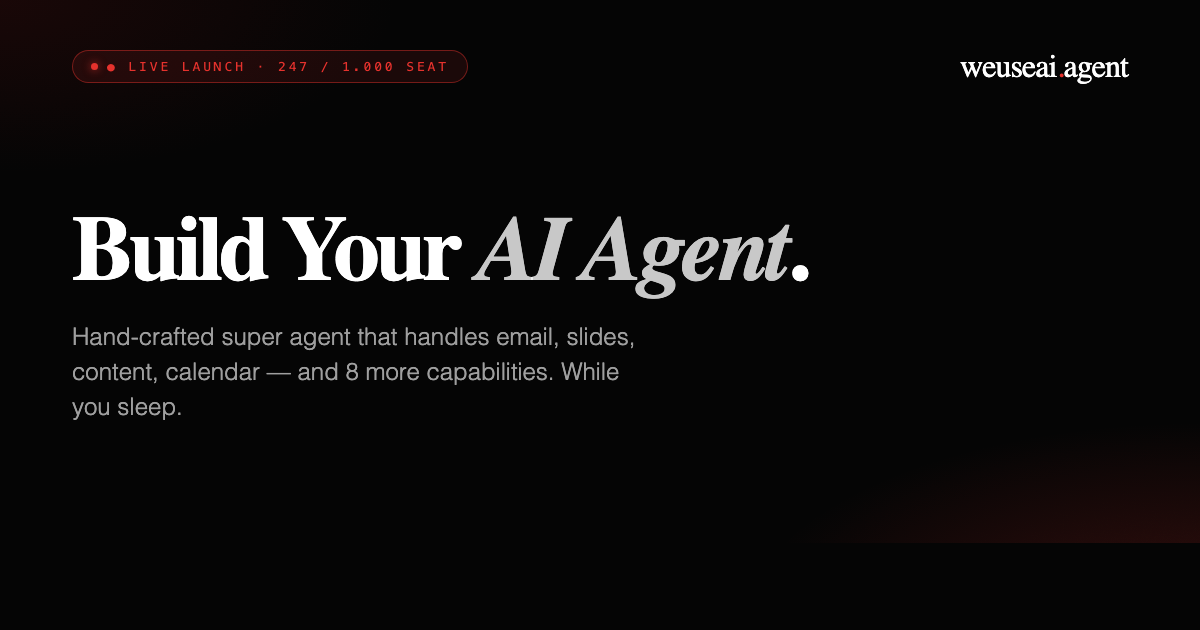
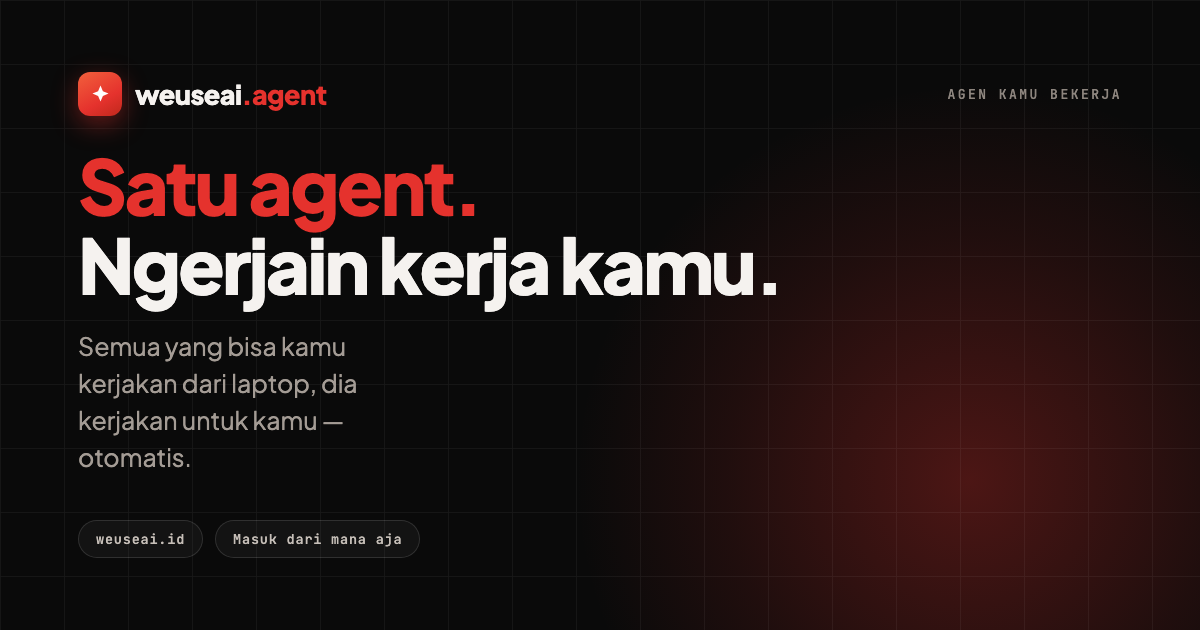
[landing] add SEO + social metadata, and replace the stale OG image
The page shipped with no title, description, canonical, favicon, Open
Graph or Twitter tags at all, so search results and every shared link
rendered blank. The icon assets and robots.txt/sitemap.xml already
existed in the repo; they were simply never wired into the page.

The old og-image.png could not ship as-is. It baked in "247 / 1.000
SEAT" — a fabricated count, which the repo's honesty lock forbids
precisely because a number frozen into an image cannot track reality —
and claimed the agent "handles email, slides, content, calendar", the
capability claim the demo-honesty gate exists to keep off this page.
The replacement is rendered from the hero copy that is actually live.

Canonical host is www. The apex answers 308 to www, so the sitemap's
eight apex URLs each cost a redirect and split signals across two
hosts; all eight now point at www and all eight return 200.

diff --git a/index.html b/index.html
@@ -1,8 +1,50 @@
 <!DOCTYPE html>
-<html>
+<html lang="id">
 <head>
 <meta charset="utf-8">
 <meta name="viewport" content="width=device-width, initial-scale=1">
+
+<!-- SEO + social. Host kanonik adalah www: apex weuseai.id menjawab 308 ke www,
+     jadi menunjuk apex akan membuat setiap tautan yang dibagikan memantul dulu. -->
+<title>weuseai.agent — Satu agent yang ngerjain kerja kamu</title>
+<meta name="description" content="Satu agent yang mengerjakan kerja laptop kamu — chat, dokumen, catatan, jualan. Bayar setup sekali, hosting transparan, berhenti kapan saja.">
+<link rel="canonical" href="https://www.weuseai.id/">
+<meta name="robots" content="index, follow, max-image-preview:large">
+<meta name="theme-color" content="#0a0a0a">
+
+<meta property="og:type" content="website">
+<meta property="og:site_name" content="weuseai.agent">
+<meta property="og:locale" content="id_ID">
+<meta property="og:url" content="https://www.weuseai.id/">
+<meta property="og:title" content="weuseai.agent — Satu agent yang ngerjain kerja kamu">
+<meta property="og:description" content="Satu agent yang mengerjakan kerja laptop kamu — chat, dokumen, catatan, jualan. Bayar setup sekali, hosting transparan, berhenti kapan saja.">
+<meta property="og:image" content="https://www.weuseai.id/assets/og-image.png">
+<meta property="og:image:type" content="image/png">
+<meta property="og:image:width" content="1200">
+<meta property="og:image:height" content="630">
+<meta property="og:image:alt" content="weuseai.agent — Satu agent. Ngerjain kerja kamu.">
+
+<meta name="twitter:card" content="summary_large_image">
+<meta name="twitter:title" content="weuseai.agent — Satu agent yang ngerjain kerja kamu">
+<meta name="twitter:description" content="Satu agent yang mengerjakan kerja laptop kamu — chat, dokumen, catatan, jualan. Bayar setup sekali, hosting transparan, berhenti kapan saja.">
+<meta name="twitter:image" content="https://www.weuseai.id/assets/og-image.png">
+<meta name="twitter:image:alt" content="weuseai.agent — Satu agent. Ngerjain kerja kamu.">
+
+<link rel="icon" type="image/png" sizes="32x32" href="/assets/favicon-32.png">
+<link rel="icon" type="image/png" sizes="512x512" href="/assets/icon-512.png">
+<link rel="apple-touch-icon" sizes="180x180" href="/assets/apple-touch-icon.png">
+
+<script type="application/ld+json">
+{"@context":"https://schema.org","@graph":[
+ {"@type":"Organization","@id":"https://www.weuseai.id/#org","name":"weuseai.agent",
+  "legalName":"PT WEUSEAI TEKNOLOGI INDONESIA","url":"https://www.weuseai.id/",
+  "logo":"https://www.weuseai.id/assets/icon-512.png",
+  "email":"halo@weuseai.id","areaServed":"ID",
+  "contactPoint":{"@type":"ContactPoint","contactType":"sales","email":"sales@weuseai.id","telephone":"+62-811-1309-8585","availableLanguage":["id","en"]}},
+ {"@type":"WebSite","@id":"https://www.weuseai.id/#site","url":"https://www.weuseai.id/",
+  "name":"weuseai.agent","inLanguage":"id-ID","publisher":{"@id":"https://www.weuseai.id/#org"}}
+]}
+</script>
 <script src="/assets/vendor/dc-support.js"></script>
 </head>
 <body>
